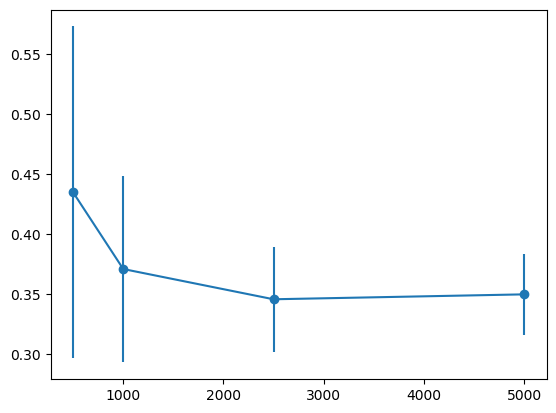
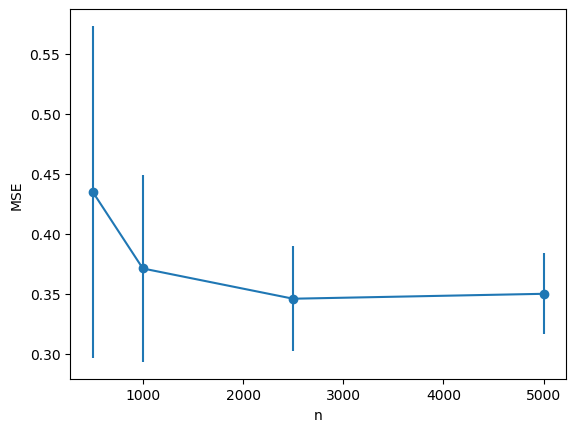
edited readme

Changed region(s): [[0.0, 0.0, 1.0, 0.9879], [0.0917, 0.9007, 0.1223, 0.9298]]

diff --git a/misc/demo_error_over_n.py b/misc/demo_error_over_n.py
@@ -64,6 +64,9 @@ error_over_n = np.load(f'error_over_n_{mu[0]}.npy')
 # plot errorbar for each n
 plt.errorbar([500, 1000, 2500, 5000], np.mean(error_over_n, 1), yerr=np.std(error_over_n, 1), fmt='-o')
 
+plt.xlabel('n')
+plt.ylabel('MSE')
+
 print(np.mean(error_over_n, 1))
 print(np.std(error_over_n, 1))
 # %%
